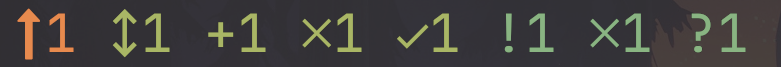
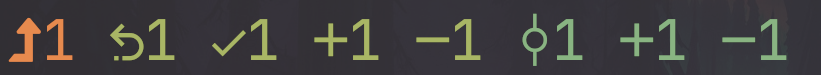
update README and help page

diff --git a/src/args.rs b/src/args.rs
@@ -43,10 +43,10 @@ pub struct Args {
 	pub color_renamed: Option<String>,
 	/// [default: --color-all-staged]
 	#[arg(long)]
-	pub color_added: Option<String>,
+	pub color_staged: Option<String>,
 	/// [default: --color-all-staged]
 	#[arg(long)]
-	pub color_staged: Option<String>,
+	pub color_added: Option<String>,
 	/// [default: --color-all-staged]
 	#[arg(long)]
 	pub color_staged_deleted: Option<String>,
@@ -55,33 +55,33 @@ pub struct Args {
 	pub color_modified: Option<String>,
 	/// [default: --color-all-unstaged]
 	#[arg(long)]
-	pub color_deleted: Option<String>,
+	pub color_unstaged: Option<String>,
 	/// [default: --color-all-unstaged]
 	#[arg(long)]
-	pub color_unstaged: Option<String>,
+	pub color_deleted: Option<String>,
 
-	/// [default:  or >]
+	/// [default:  or >]
 	#[arg(long)]
 	pub symbol_unpushed: Option<String>,
-	/// [default:  or &]
+	/// [default:  or &]
 	#[arg(long)]
 	pub symbol_renamed: Option<String>,
-	/// [default: +]
-	#[arg(long)]
-	pub symbol_added: Option<String>,
-	/// [default:  or *]
+	/// [default:  or !]
 	#[arg(long)]
 	pub symbol_staged: Option<String>,
-	/// [default:  or ×]
+	/// [default:  or +]
+	#[arg(long)]
+	pub symbol_added: Option<String>,
+	/// [default:  or -]
 	#[arg(long)]
 	pub symbol_staged_deleted: Option<String>,
-	/// [default: !]
+	/// [default:  or !]
 	#[arg(long)]
 	pub symbol_modified: Option<String>,
-	/// [default:  or ×]
-	#[arg(long)]
-	pub symbol_deleted: Option<String>,
-	/// [default: ?]
+	/// [default:  or +]
 	#[arg(long)]
 	pub symbol_unstaged: Option<String>,
+	/// [default:  or -]
+	#[arg(long)]
+	pub symbol_deleted: Option<String>,
 }

diff --git a/src/constructor/glyphizer.rs b/src/constructor/glyphizer.rs
@@ -119,7 +119,10 @@ mod tests {
 		assert_eq!(default::RENAMED_NERD.to_string(), chosen.renamed);
 		assert_eq!(default::STAGED_NERD.to_string(), chosen.staged);
 		assert_eq!(default::ADDED_NERD.to_string(), chosen.added);
-		assert_eq!(default::STAGED_DELETED_NERD.to_string(), chosen.staged_deleted);
+		assert_eq!(
+			default::STAGED_DELETED_NERD.to_string(),
+			chosen.staged_deleted
+		);
 		assert_eq!(default::MODIFIED_NERD.to_string(), chosen.modified);
 		assert_eq!(default::UNSTAGED_NERD.to_string(), chosen.unstaged);
 		assert_eq!(default::DELETED_NERD.to_string(), chosen.deleted);

diff --git a/README.md b/README.md
@@ -13,7 +13,7 @@ function fish_prompt
 end
 ```
 
-By default, octussy will print this output to stdout (if you have every single type of change in your current git directory), without a newline at the end:
+By default, octussy will print this output to stdout (if you had every single type of change in your current git directory), without a newline at the end:
 
 `octussy --test`
 
@@ -23,12 +23,12 @@ The meanings of every element in order:
 
 1. Commits you haven't yet pushed to the remote
 2. Staged renamed files
-3. Staged new files
-4. Staged deletions
-5. Staged modifications
+3. Staged modifications
+4. Staged new files
+5. Staged deletions
 6. Unstaged modifications
-7. Unstaged deletions
-8. Unstaged new files
+7. Unstaged new files
+8. Unstaged deletions
 
 It uses nerd font symbols for some of the elements.
 
@@ -93,28 +93,31 @@ Usage: octussy [OPTIONS]
 
 Options:
   -v, --verbose
-          octussy doesn't print errors by default, because it's supposed to be in
-          your shell prompt constantly.
+          octussy doesn't print errors by default, because it's supposed to be in your shell prompt constantly.
+          
           When you do want to see the errors, use this flag.
 
       --ascii-symbols
           octussy uses nerd font symbols for some elements by default.
+          
           Use this flag if you don't use a nerd font.
-          You can see both the nerd and ascii defaults for every category later down 
-          in this help.
+          
+          You can see both the nerd and ascii defaults for every category later down in this help.
 
       --test
           Will print every single element.
-          Helpful for testing the output without having to be in a git directory with 
-          certain changes.
+          
+          Helpful for testing the output without having to be in a git directory with certain changes.
 
       --color-unpushed <COLOR_UNPUSHED>
           [default: yellow]
-
-          For every color, you can either specify one of the main 8 colors from your 
-          terminal color scheme:
+          
+          For every color, you can either specify one of the main 8 colors from your terminal color scheme:
+          
           black, red, green, yellow, blue, purple, cyan, white
+          
           Or a hex code, without the # symbol like: FFAFD7
+          
           For both hex codes and color names, the cAsE doesn't matter
 
       --color-all-staged <COLOR_ALL_STAGED>
@@ -126,10 +129,10 @@ Options:
       --color-renamed <COLOR_RENAMED>
           [default: --color-all-staged]
 
-      --color-added <COLOR_ADDED>
+      --color-staged <COLOR_STAGED>
           [default: --color-all-staged]
 
-      --color-staged <COLOR_STAGED>
+      --color-added <COLOR_ADDED>
           [default: --color-all-staged]
 
       --color-staged-deleted <COLOR_STAGED_DELETED>
@@ -138,35 +141,35 @@ Options:
       --color-modified <COLOR_MODIFIED>
           [default: --color-all-unstaged]
 
-      --color-deleted <COLOR_DELETED>
-          [default: --color-all-unstaged]
-
       --color-unstaged <COLOR_UNSTAGED>
           [default: --color-all-unstaged]
 
+      --color-deleted <COLOR_DELETED>
+          [default: --color-all-unstaged]
+
       --symbol-unpushed <SYMBOL_UNPUSHED>
-          [default:  or >]
+          [default:  or >]
 
       --symbol-renamed <SYMBOL_RENAMED>
-          [default:  or &]
-
-      --symbol-added <SYMBOL_ADDED>
-          [default: +]
+          [default:  or &]
 
       --symbol-staged <SYMBOL_STAGED>
-          [default:  or *]
+          [default:  or !]
+
+      --symbol-added <SYMBOL_ADDED>
+          [default:  or +]
 
       --symbol-staged-deleted <SYMBOL_STAGED_DELETED>
-          [default:  or ×]
+          [default:  or -]
 
       --symbol-modified <SYMBOL_MODIFIED>
-          [default: !]
-
-      --symbol-deleted <SYMBOL_DELETED>
-          [default:  or ×]
+          [default:  or !]
 
       --symbol-unstaged <SYMBOL_UNSTAGED>
-          [default: ?]
+          [default:  or +]
+
+      --symbol-deleted <SYMBOL_DELETED>
+          [default:  or -]
 
   -h, --help
           Print help (see a summary with '-h')
